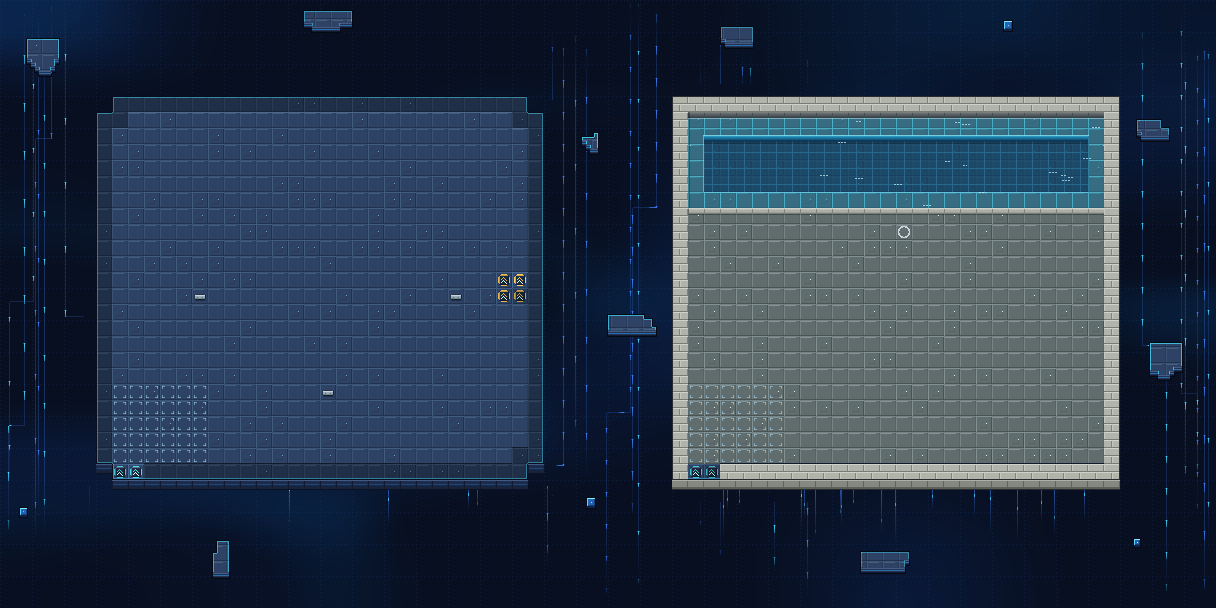
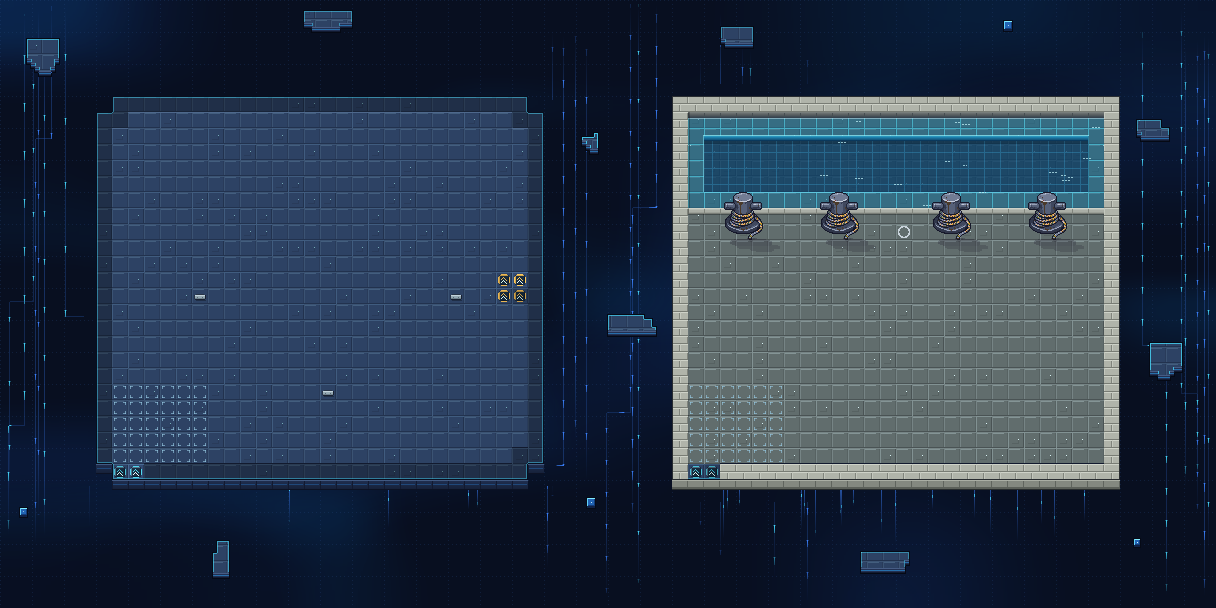
Karte 19: vier Poller mit Tau (wiederverwendet aus Karte 18) an der Kaikante, symmetrisch zur Raummitte
Claude-Session: https://claude.ai/code/session_01SaoYHKhnro4LFcPJqjaPsq

diff --git a/tools/karte19_objekte.py b/tools/karte19_objekte.py
@@ -1,0 +1,57 @@
+"""Objekte fuer Karte 19 (Revenge) - am 16x16-Raster, nach den Regeln aus CLAUDE.md.
+
+  python3 tools/karte19_bauen.py   (einmal -> pixelhoehe.npy)
+  python3 tools/karte19_objekte.py && python3 tools/karte19_bauen.py
+
+Hafen (rechter Raum): vier Poller mit Tau (wiederverwendet: Karte 18, PixelLab k18_boot/05) auf der Kaikante, kurz
+bevor das Wasser beginnt - gleichmaessig verteilt und spiegelsymmetrisch zur Raummitte, Fuesse buendig in einer Reihe.
+"""
+import json, os, sys
+sys.path.insert(0, os.path.dirname(os.path.abspath(__file__)))
+import numpy as np
+from PIL import Image, ImageFilter
+from karte04_objekte import saeubern
+
+ROOT = os.path.join(os.path.dirname(os.path.abspath(__file__)), '..')
+KARTE = os.path.join(ROOT, 'maps', 'karte19')
+OBJ = os.path.join(ROOT, 'assets', 'objekte', 'karte19')
+T = 16
+RX, RY = 42, 6                                   # linke obere Ecke des Hafenraums
+MITTE = (RX + 14) * T                            # Raumachse (x = 896 px)
+KAI = RY + 8                                     # Fussreihe: erste Pflasterreihe hinter der Kaikante (Sockel ganz auf Stein)
+# (Quelle, Mitte x in px, Fussreihe, Animation)
+OBJEKTE = [('hafen/poller', MITTE + dx, KAI, None) for dx in (-152, -56, 56, 152)]
+
+
+def main():
+    lvl = np.load(os.path.join(KARTE, 'pixelhoehe.npy'))
+    Hp, Wp = lvl.shape
+    os.makedirs(os.path.join(OBJ, 'sauber'), exist_ok=True)
+    objekte, belegt = [], np.zeros((Hp, Wp), bool)
+    for name, mitte, reihe, anim in OBJEKTE:
+        sp = saeubern(Image.open(os.path.join(OBJ, name + '.png')).convert('RGBA'))
+        datei = 'sauber/%s.png' % name.replace('/', '-')
+        sp.save(os.path.join(OBJ, datei))
+        a = np.array(sp.getchannel('A')) >= 128
+        zu = int(np.nonzero(a.any(axis=1))[0].max())
+        xs = np.nonzero(a.any(axis=0))[0]
+        x = int(round(mitte - (xs.min() + xs.max() + 1) / 2.0))
+        y = (reihe + 1) * T - 1 - zu
+        h_, w_ = a.shape
+        fuss = a.copy(); fuss[:max(0, zu + 1 - 6)] = False          # Fuss (unterste Pixelreihen) auf festem Boden
+        assert (lvl[y:y + h_, x:x + w_][fuss] == 2).all(), name + ': Fuss nicht auf dem Kai'
+        assert not (belegt[y:y + h_, x:x + w_] & a).any(), name + ': ueberlappt'
+        g = np.zeros_like(belegt); g[y:y + h_, x:x + w_] = a
+        belegt |= np.array(Image.fromarray((g * 255).astype(np.uint8)).filter(ImageFilter.MaxFilter(5))) > 0
+        o = {'datei': datei, 'basis': name, 'x': x, 'y': y, 'fuss': zu, 'kachel': [int(mitte // T), reihe], 'ebene': 2,
+             'an_wand': True}                                         # kein Erd-Bodenwall auf Stein
+        if anim:
+            o['anim'] = anim
+        objekte.append(o)
+        print('  %s: x %d-%d, y %d-%d' % (name, x, x + w_, y, y + h_))
+    json.dump(objekte, open(os.path.join(OBJ, 'platzierung.json'), 'w'), indent=0)
+    print('Karte 19: %d Objekte' % len(objekte))
+
+
+if __name__ == '__main__':
+    main()
